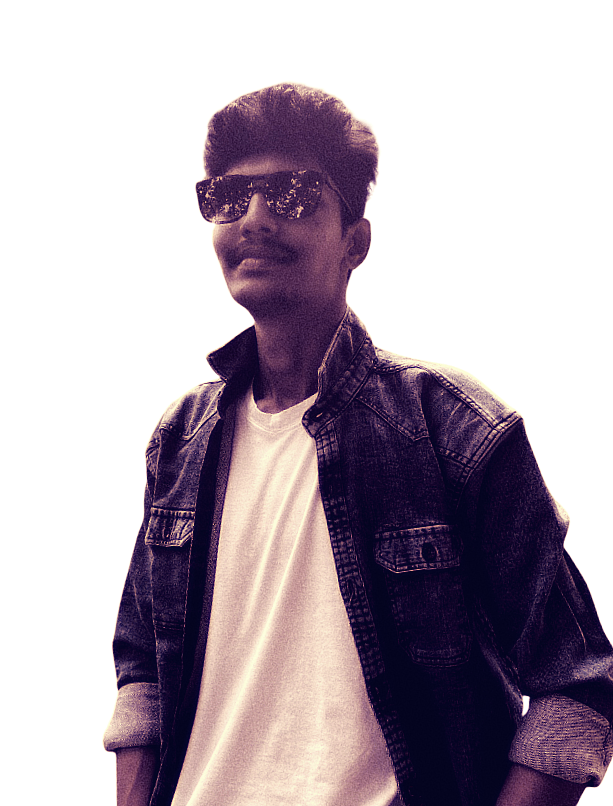
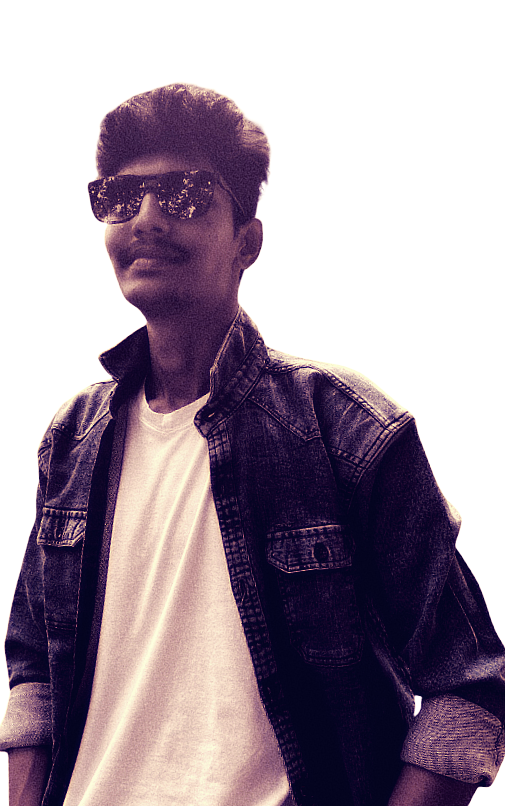
Fix: small screen responsive

diff --git a/app/(main)/page.tsx b/app/(main)/page.tsx
@@ -154,17 +154,20 @@ const Page = () => {
           </p>
           <GlowButton scroll="#projects">My Work</GlowButton>
         </div>
-        <div className="relative order-1 sm:order-2">
-          <div className="w-[18rem] sm:w-[25rem] top-1/4 lg:top-[6rem] md:top-[30%] absolute right-1/4 md:right-1/3 aspect-10/12 h-fit">
-            <img src="/profile.png" />
+        <div className="relative flex items-end justify-center order-1 sm:order-2">
+          <div className="relative w-fit h-fit lg:-translate-y-10">
+            <img
+              src="/profile.png"
+              className="[@media(max-width:380)]:w-[15rem] [@media(max-width:380)]:mb-[2rem] [@media(max-width:380)]:mt-[5rem] w-[18rem] sm:w-[25rem] aspect-9/12 "
+            />
             <div
-              className="h-25 absolute w-full bottom-[-1px]"
+              className="h-25 absolute w-full bottom-[-1px] [@media(max-width:380)]:bottom-[25px]"
               style={{
                 backgroundImage: "linear-gradient(to bottom, rgba(0,0,0,0), rgba(17, 23, 35, 1))",
               }}
             ></div>
           </div>
-          <div className="bg-circle absolute w-[25rem] translate-y-1/2 sm:translate-y-0 sm:w-[30rem] right-0 sm:right-[45%] bottom-0 md:bottom-[40%] lg:bottom-0 sm:translate-x-1/3 aspect-square"></div>
+          <div className="bg-circle absolute w-[23rem] translate-y-[8%] sm:translate-y-1  sm:w-[30rem]  sm:translate-x-1 -translate-x-1 aspect-square"></div>
         </div>
       </div>
       {/* Skills */}

diff --git a/app/components/Card.tsx b/app/components/Card.tsx
@@ -12,6 +12,7 @@ const Card = ({ id, name, description, image, url, handleShowModel }: CardProps)
     <div
       onClick={() => handleShowModel(id)}
       className="bg-[#0c182e] shadow-[1px_1px_7px_#939393]
+      cursor-pointer
  min-w-40 max-w-[28rem] aspect-8/9 rounded-xl flex flex-col overflow-hidden border border-[#5a5a5a]"
     >
       <img src={image} alt={name} className="w-full min-h-[16rem] h-[70%] rounded-xl" />

diff --git a/app/constants/projects.tsx b/app/constants/projects.tsx
@@ -209,7 +209,7 @@ const projects: projectType[] = [
   },
   {
     id: 5,
-    name: "Queue Management & Task Assignment App",
+    name: "Queue Management App",
     description: "Developed backend for the android application",
     image: "/queue.png",
     url: "https://play.google.com/store/apps/details?id=com.skyraan.mathlearning",
